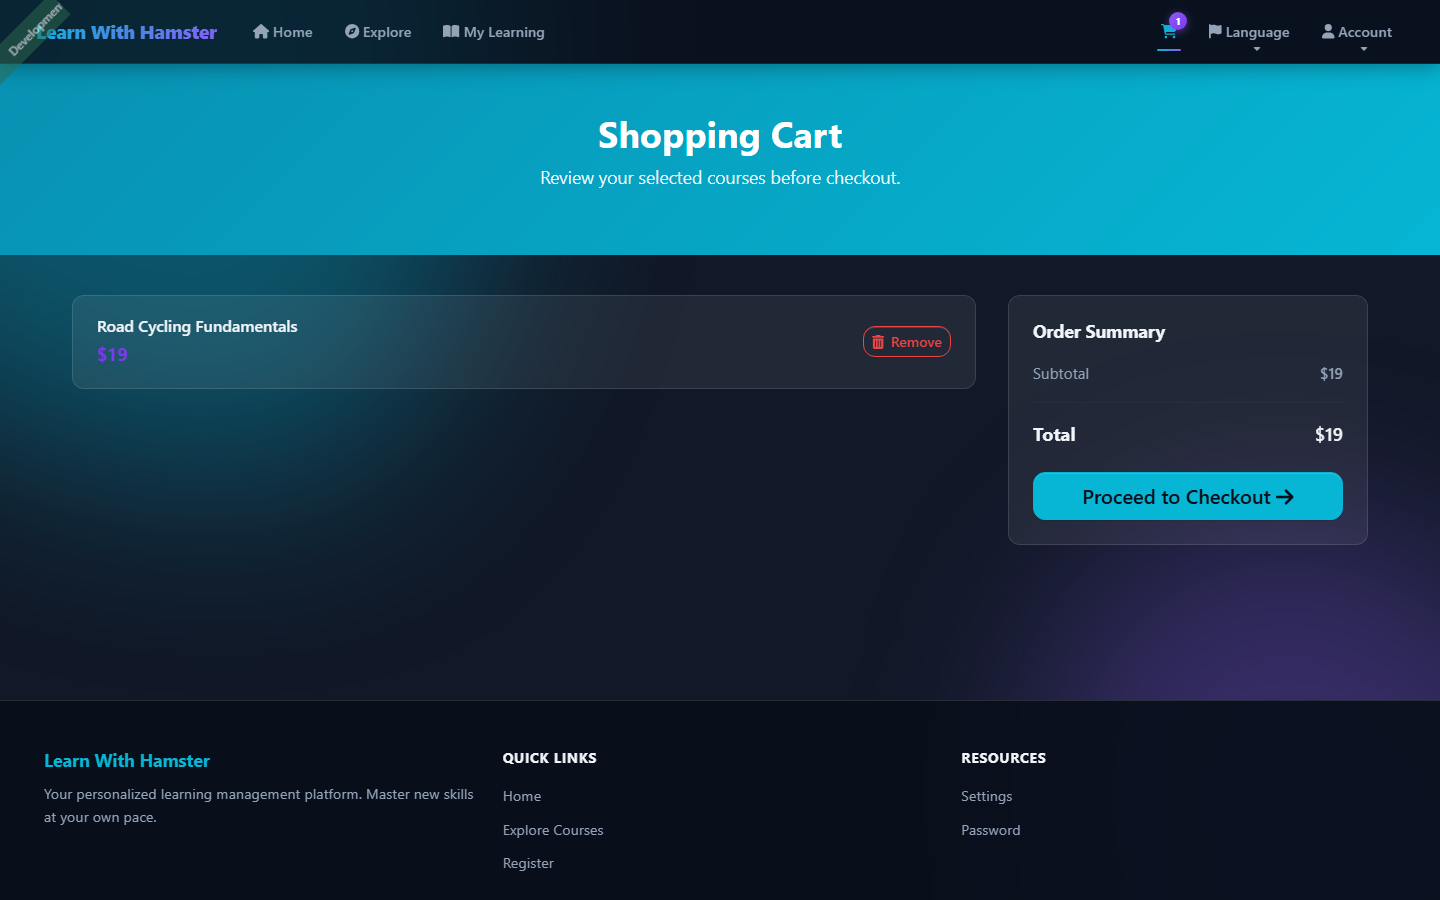
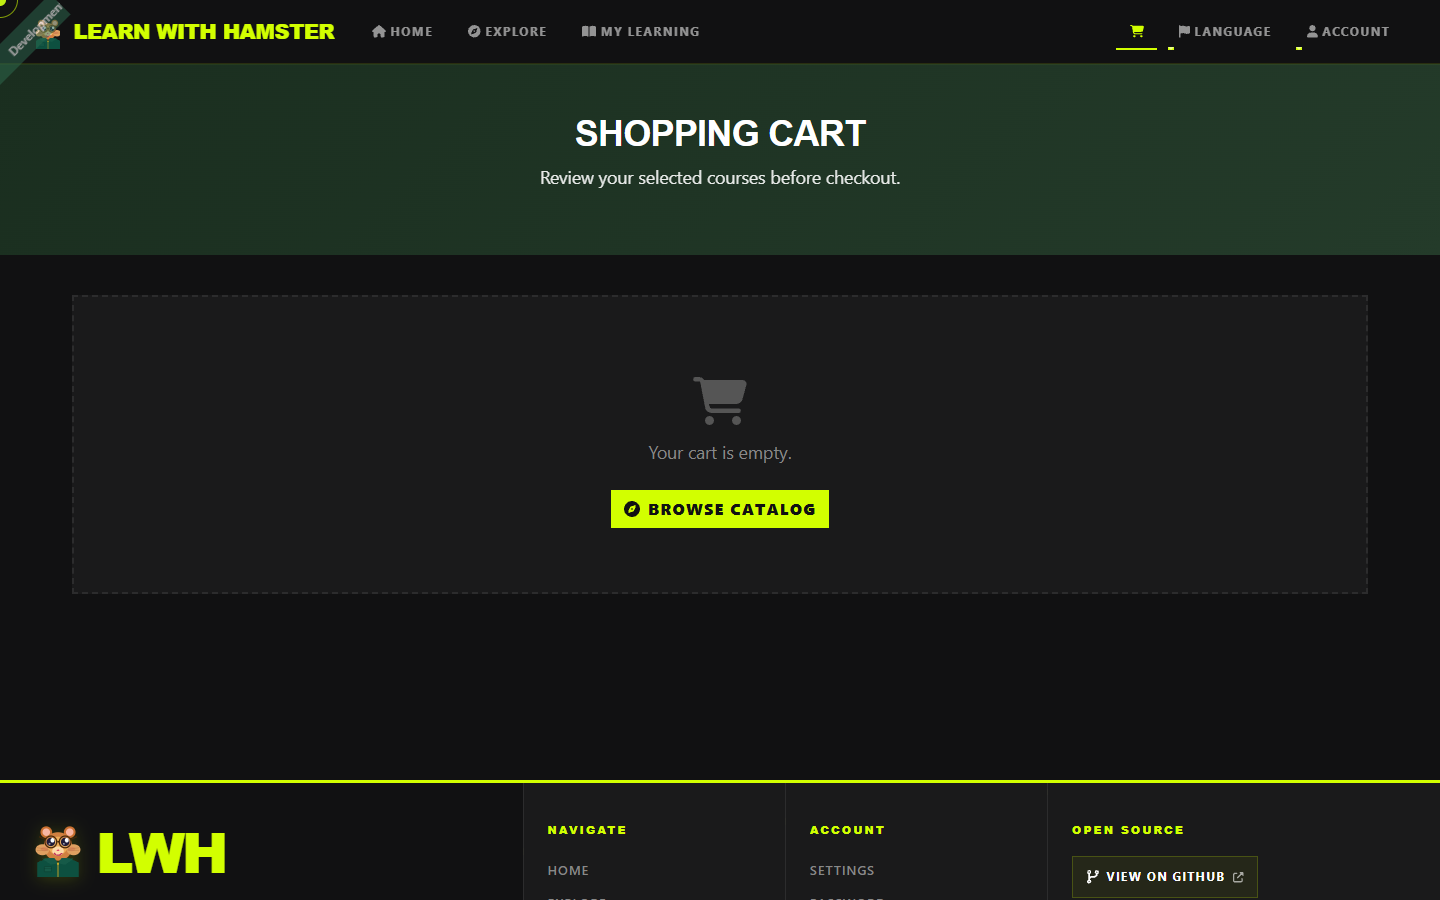
Update screenshots with current UI and add puppeteer-based capture script
- Refresh all 11 existing screenshots to reflect latest design (Three.js scroll, glyph rings, LN dark theme)
- Add 3 new screenshots: hero with scroll open (01b), admin disciplines (11), login page (12)
- Rewrite scripts/take-screenshots.mjs from playwright to puppeteer (only puppeteer is installed)
- Update README: new screenshot entries, Three.js in tech stack, scroll-three spec in test table

diff --git a/README.md b/README.md
@@ -26,7 +26,10 @@ It's built on **JHipster 8.11.0** — a framework that generates production-read
 ## Screenshots
 
 ### Landing Page (logged out)
-![Hero — Learn Without Limits](docs/screenshots/01-hero-logged-out.png)
+![Hero — Greek papyrus scroll with Three.js WebGL animation](docs/screenshots/01-hero-logged-out.png)
+
+### Hero — Dragon Scroll Open
+![Hero — scroll unfurled, glyph particles, enchanting-table book aesthetic](docs/screenshots/01b-hero-scroll-open.png)
 
 ### Personalized Dashboard (logged in)
 ![Home Dashboard — animated stats, progress ring, continue-learning cards](docs/screenshots/02-home-dashboard.png)
@@ -50,6 +53,12 @@ It's built on **JHipster 8.11.0** — a framework that generates production-read
 | Shopping Cart | Admin Dashboard |
 |---|---|
 | ![Cart](docs/screenshots/08-cart.png) | ![Admin view — Manage Content, 100% progress](docs/screenshots/09-home-admin.png) |
+
+### Admin Content Management
+![Admin — Disciplines list with CRUD controls](docs/screenshots/11-admin-disciplines.png)
+
+### Login Page
+![Login — dark-themed sign-in form](docs/screenshots/12-login-page.png)
 
 ### Mobile Responsive
 | Mobile Catalog | Mobile Dashboard |
@@ -440,6 +449,8 @@ Integration tests spin up real MySQL containers via Testcontainers — Docker mu
 
 | Spec file | What it tests |
 |---|---|
+| `home.component.spec.ts` | Auth state, book parallax effect, computed stats (XP, completion %), progress ring geometry |
+| `scroll-three.component.spec.ts` | Three.js WebGL mock, RAF spring physics, ResizeObserver debounce, touch device detection, portrait mode, auto-open timer, page turn, accent colour |
 | `bookmark.service.spec.ts` | localStorage bookmark persistence, toggle, multi-bookmark, corrupt data recovery |
 | `lesson-browse.component.spec.ts` | Auth state, notes (save/load/overwrite), reading time, bookmarks, keyboard navigation (arrows, edge cases, input guard), resource action labels |
 | `my-learning.component.spec.ts` | Enrollment loading, in-progress/completed computed split, bookmark loading, null-body resilience |
@@ -505,7 +516,7 @@ Learn-With-Hamster-App/
 | Testing | Jest · Cypress · JUnit 5 · Testcontainers |
 | PDF generation | jsPDF (browser-side, no server) |
 | Celebrations | canvas-confetti (7-wave burst, screen flash, body shake) + DOM glassmorphism particles |
-| Animations | Web Animations API · requestAnimationFrame count-up · SVG stroke-dasharray transitions |
+| Animations | Three.js WebGL (hero scroll) · Web Animations API · requestAnimationFrame RAF spring physics · SVG stroke-dasharray transitions |
 | Video player | YouTube IFrame Player API (dynamically injected, `YT.Player`, 90% watch gate) |
 | XP / Points | 10 XP per lesson (DB) · 50 XP course-completion bonus (frontend) · animated count-up display |
 
